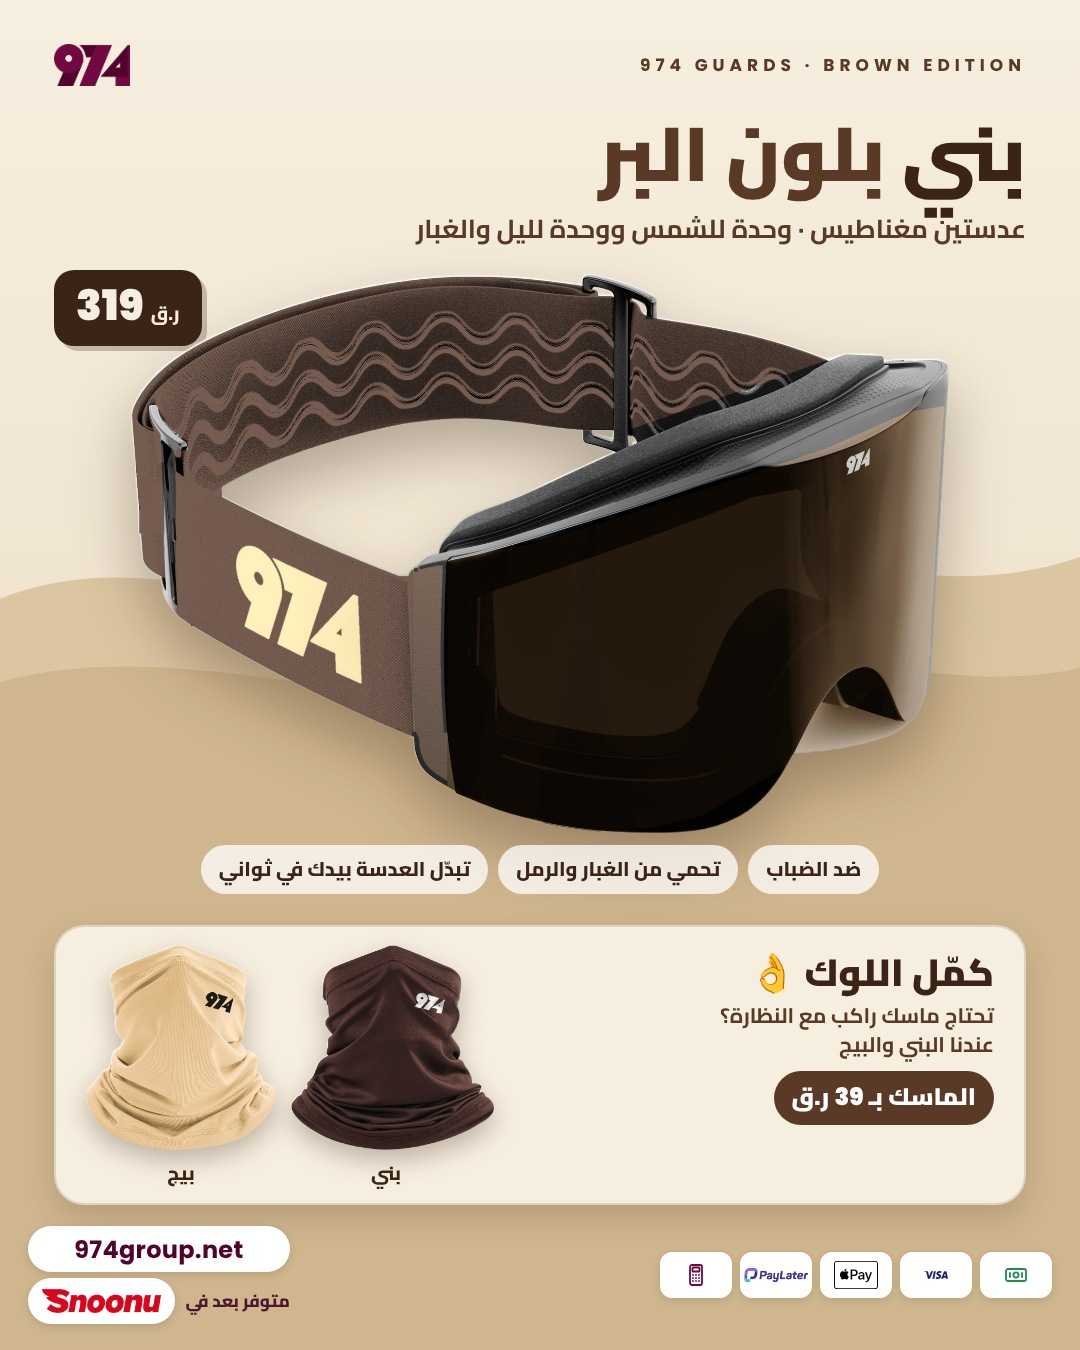
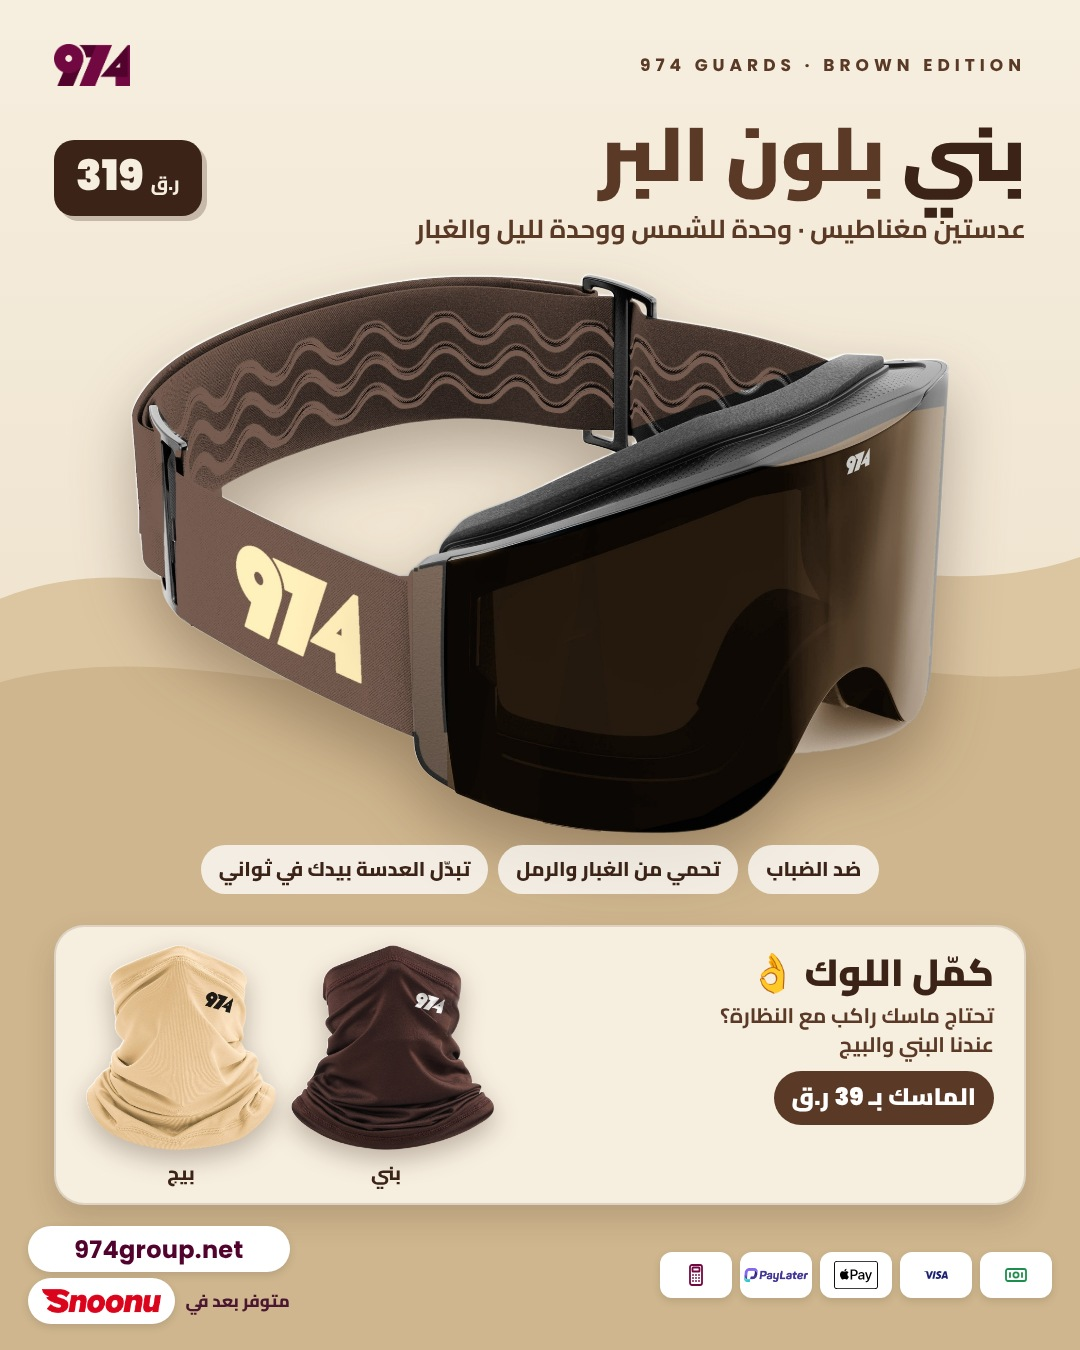
Brown set: price tag clear of goggles
Claude-Session: https://claude.ai/code/session_01K6HDWNrArsGSJekW1VcEzV

Changed region(s): [[0.0306, 0.0933, 0.2139, 0.28]]

diff --git a/posts/2026-11/brown-set/out/974-brown-set-story.html b/posts/2026-11/brown-set/out/974-brown-set-story.html
@@ -15,7 +15,7 @@ background:linear-gradient(180deg,#F6EEDF 0%,#E9D9BF 100%)}
 .g{position:absolute;left:90px;top:510px;width:900px;filter:drop-shadow(0 30px 30px rgba(59,36,23,.35))}
 .feat{position:absolute;left:54px;right:54px;top:1135px;display:flex;justify-content:center;gap:10px;direction:rtl;flex-wrap:wrap}
 .feat div{background:rgba(255,255,255,.75);border-radius:40px;padding:5px 18px 7px;font-weight:800;font-size:21px}
-.gp{position:absolute;left:54px;top:510px;background:#3B2417;color:#F6EEDF;border-radius:20px;padding:4px 22px 9px;font-family:Poppins;font-weight:900;font-size:45px;box-shadow:5px 5px 0 rgba(59,36,23,.25)}
+.gp{position:absolute;left:54px;top:360px;background:#3B2417;color:#F6EEDF;border-radius:20px;padding:4px 22px 9px;font-family:Poppins;font-weight:900;font-size:45px;box-shadow:5px 5px 0 rgba(59,36,23,.25)}
 .gp small{font-family:Cairo;font-size:.45em;font-weight:800}
 .set{position:absolute;left:54px;right:54px;top:1220px;height:302px;background:#F6EEDF;border-radius:30px;box-shadow:0 14px 30px rgba(59,36,23,.16);border:2px solid rgba(90,58,38,.15)}
 .set .t{position:absolute;right:30px;top:24px;text-align:right;direction:rtl;width:410px}

diff --git a/posts/2026-11/brown-set/out/974-brown-set-post.html b/posts/2026-11/brown-set/out/974-brown-set-post.html
@@ -15,7 +15,7 @@ background:linear-gradient(180deg,#F6EEDF 0%,#E9D9BF 100%)}
 .g{position:absolute;left:130px;top:272px;width:820px;filter:drop-shadow(0 30px 30px rgba(59,36,23,.35))}
 .feat{position:absolute;left:54px;right:54px;top:845px;display:flex;justify-content:center;gap:10px;direction:rtl;flex-wrap:wrap}
 .feat div{background:rgba(255,255,255,.75);border-radius:40px;padding:5px 18px 7px;font-weight:800;font-size:20px}
-.gp{position:absolute;left:54px;top:270px;background:#3B2417;color:#F6EEDF;border-radius:20px;padding:4px 22px 9px;font-family:Poppins;font-weight:900;font-size:42px;box-shadow:5px 5px 0 rgba(59,36,23,.25)}
+.gp{position:absolute;left:54px;top:140px;background:#3B2417;color:#F6EEDF;border-radius:20px;padding:4px 22px 9px;font-family:Poppins;font-weight:900;font-size:42px;box-shadow:5px 5px 0 rgba(59,36,23,.25)}
 .gp small{font-family:Cairo;font-size:.45em;font-weight:800}
 .set{position:absolute;left:54px;right:54px;top:925px;height:280px;background:#F6EEDF;border-radius:30px;box-shadow:0 14px 30px rgba(59,36,23,.16);border:2px solid rgba(90,58,38,.15)}
 .set .t{position:absolute;right:30px;top:24px;text-align:right;direction:rtl;width:380px}

diff --git a/posts/2026-11/brown-set/gen.py b/posts/2026-11/brown-set/gen.py
@@ -37,7 +37,7 @@ background:linear-gradient(180deg,{CREAM} 0%,{SAND} 100%)}}
 .g{{position:absolute;left:{(1080-gw)//2}px;top:{o+(300 if story else 272)}px;width:{gw}px;filter:drop-shadow(0 30px 30px rgba(59,36,23,.35))}}
 .feat{{position:absolute;left:54px;right:54px;top:{o+(925 if story else 845)}px;display:flex;justify-content:center;gap:10px;direction:rtl;flex-wrap:wrap}}
 .feat div{{background:rgba(255,255,255,.75);border-radius:40px;padding:5px 18px 7px;font-weight:800;font-size:{int(20*k)}px}}
-.gp{{position:absolute;left:54px;top:{o+(300 if story else 270)}px;background:{BRD};color:{CREAM};border-radius:20px;padding:4px 22px 9px;font-family:Poppins;font-weight:900;font-size:{int(42*k)}px;box-shadow:5px 5px 0 rgba(59,36,23,.25)}}
+.gp{{position:absolute;left:54px;top:{o+(150 if story else 140)}px;background:{BRD};color:{CREAM};border-radius:20px;padding:4px 22px 9px;font-family:Poppins;font-weight:900;font-size:{int(42*k)}px;box-shadow:5px 5px 0 rgba(59,36,23,.25)}}
 .gp small{{font-family:Cairo;font-size:.45em;font-weight:800}}
 .set{{position:absolute;left:54px;right:54px;top:{o+(1010 if story else 925)}px;height:{int(280*k)}px;background:{CREAM};border-radius:30px;box-shadow:0 14px 30px rgba(59,36,23,.16);border:2px solid rgba(90,58,38,.15)}}
 .set .t{{position:absolute;right:30px;top:24px;text-align:right;direction:rtl;width:{int(380*k)}px}}
